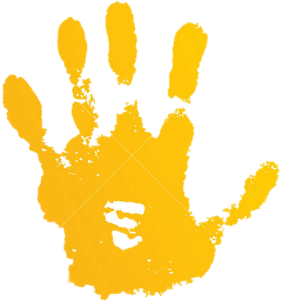
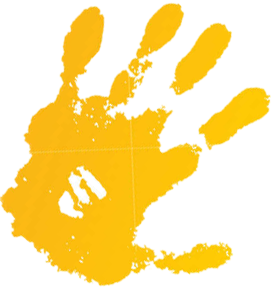
hands home page edc

diff --git a/sites/edc/wp-content/themes/pinapp/assets/css/main.css b/sites/edc/wp-content/themes/pinapp/assets/css/main.css
@@ -1,2 +1,2 @@
-main{margin-top:200px}body{font-family:Montserrat,sans-serif}body.custom-background{background-repeat:repeat-y!important;background-size:1140px!important}body.scroll-down .nav-top-wrapper .header-right-column{display:none}body.scroll-down .nav-top-wrapper{height:90px;opacity:.3}body.scroll-down .header-top-logo{max-width:75px;margin:2px}li,p{font-size:.85rem;line-height:1.6rem}.alt-font{font-family:Concert One,cursive}#menu-social-networks-top .menu-item{list-style:none;display:inline-block}#menu-social-networks-footer .menu-item{font-size:13px;list-style:none;text-align:left}.title-section{font-size:32px;font-family:Concert One,cursive;display:flex;align-items:baseline;color:var(--gray-dark);margin-top:20px;font-style:italic;background-image:url(doodle-title.cb135d66.png);-webkit-text-fill-color:transparent;background-clip:text;-webkit-background-clip:text;background-size:300px;background-position-y:center;animation-name:title-bg-anim;animation-duration:20s;animation-iteration-count:infinite;animation-timing-function:linear}@keyframes title-bg-anim{0%{background-position-x:0}to{background-position-x:-300px}}.subtitle{font-size:26px;font-family:Concert One,cursive;color:var(--gray-dark)}.top-main-nav{background-color:var(--gray-dark)}.top-main-nav .menu-item{position:relative;font-family:Concert One,cursive;color:var(--light);display:flex;height:40px;align-items:center;font-size:1rem;list-style:none}.top-main-nav .menu-item:first-child{--fill:#eb5050}.top-main-nav .menu-item:nth-child(2){--fill:#36e978}.top-main-nav .menu-item:nth-child(3){--fill:#4e4ef5}.top-main-nav .menu-item:nth-child(4){--fill:#feed03}.top-main-nav .menu-item:nth-child(5){--fill:#1beba4}.top-main-nav .menu-item:nth-child(6){--fill:#dc50eb}.top-main-nav .menu-item:nth-child(7){--fill:#850000}.top-main-nav .menu-item:nth-child(8){--fill:#00a2ff}.top-main-nav .menu-item:nth-child(9){--fill:#117406}.top-main-nav .menu-item:before{content:" ";background-color:var(--fill);width:8px;display:inline-block;height:100%}.top-main-nav .menu-item.current-menu-item{background-color:var(--fill)}.top-main-nav .menu-item a{padding:0 10px;color:var(--light)}.menu-mobile-icon{right:10px;top:40px}.icon-sandwich-back{display:none}.nav-top-wrapper{z-index:1000;height:230px;left:0;z-index:3000}.main-header,.nav-top-wrapper{display:flex;width:100%;flex-wrap:wrap;position:fixed;background-color:var(--white);top:0}.main-header{z-index:1000}.main-header.open .top-main-nav-wrapper{display:flex!important;position:fixed;top:0;z-index:2000;width:100vw;height:100vh}.main-header.open .top-main-nav{flex-wrap:wrap;text-align:left!important;justify-content:flex-start!important;padding-top:130px;padding-left:0;flex-direction:column}.main-header.open .icon-sandwich-back{display:block}.main-header.open .nav-menu-item{width:100%}.main-header.open .header-right-column{display:none}.main-header.open .nav-top-wrapper{height:auto;padding-bottom:0!important;background-color:var(--gray-dark)}.main-header.open .header-top-logo{mix-blend-mode:luminosity;margin-bottom:0;max-width:70px}.header-top-logo{max-width:100px;margin:20px;transition:all .5s}.top-main-nav-wrapper{background-color:var(--gray-dark);width:100%}.max-width-wrapper{max-width:1200px;width:100%;margin:0 auto}.header-contact{margin-left:auto}.header-right-column{display:flex}.main-footer{margin-top:130px;background-color:var(--gray-dark)}.main-footer .menu-item{margin:5px}.main-footer .menu-item a{color:var(--light)}.logo-footer{max-width:180px;margin-top:-60%;position:relative}.footer-menu{width:100%}.footer-menu .menu-item{list-style:none}.column-center{flex-grow:1}.column-right{flex-grow:1;width:100%}.footer-main-nav{column-count:2}.footer-nav-menu-item{display:block;text-align:center;color:var(--light);margin:12px 4px;font-size:12px}.footer-small-box-columns{display:flex;flex-wrap:wrap;width:100%}.footer-small-box-left{width:100%}.wp-block-latest-posts.is-grid li{width:100%;margin:0 0 20px}.wp-block-latest-posts.is-grid li .wp-block-latest-posts__featured-image img{width:100%;border-radius:10px}.wp-block-latest-posts.alignleft,.wp-block-latest-posts .wp-block-latest-posts__featured-image.alignleft{margin-right:0}:root{--primary:#f7567c;--secondary:#3e4095;--tertiary:#ffa630;--blue:#3cb9e1;--gray:#f3f3f3;--gray-dark:#5d576b;--danger:#e91717;--teal:#7ee8c4}.bg-light{background-color:#f5f5f5}.bg-blue{background-color:var(--blue)}.bg-teal{background-color:var(--teal)}.bg-secondary{background-color:var(--secondary)}.cmw-100{max-width:100px}.cmw-650{max-width:650px}.cmw-1140{max-width:1140px}.cmw-1200{max-width:1200px}.cmw-450{max-width:450px}.bg-cover{background-size:cover}.bg-center-center{background-position:50%}.bg-center-top{background-position:top}.bg-center-bottom{background-position:bottom}.ty-50{transform:translateY(50%)}.ty-minus30{transform:translateY(-30%)}.wp-block-button{min-height:70px}.btn,.wp-block-button__link{position:relative;padding:10px 40px;border-radius:100px;color:#fff;text-decoration:none;transition:all .1s;border:0;border-bottom:5px solid #a20b0b;font-size:14px;background-color:var(--danger);font-family:Concert One,cursive;font-size:18px}.btn-primary:hover{color:#fff;background-color:var(--danger);border-color:#a20b0b;text-decoration:underline}.btn:active,.wp-block-button__link:active{transform:translateY(5px);border-bottom-width:1px;border-bottom-style:solid;background-color:var(--danger)!important}.texture1{background-image:url(texture-color-1.6fb2a4e7.svg)}.texture2{background-image:url(texture-color-2.c85fe9ee.svg)}.img-edge-1 img,.img-edge-horizontal-1 img{mask-image:url(horizontal-divider-1.4b17ad58.png);mask-repeat:no-repeat;mask-size:cover;mask-position:center bottom;-webkit-mask-image:url(horizontal-divider-1.4b17ad58.png);-webkit-mask-repeat:no-repeat;-webkit-mask-size:cover;-webkit-mask-position:center bottom}.img-edge-2 img,.img-edge-horizontal-2 img{mask-image:url(horizontal-divider-2.debe75ff.png);mask-repeat:no-repeat;mask-size:cover;mask-position:center bottom;-webkit-mask-image:url(horizontal-divider-2.debe75ff.png);-webkit-mask-repeat:no-repeat;-webkit-mask-size:cover;-webkit-mask-position:center bottom}.wp-block-image.w-100 img{width:100%;height:100%}.wp-block-image img{object-fit:cover}.rounded,.wp-block-image.rounded img{border-radius:1rem!important}#sbi_load,.sb_instagram_header{display:none}#sb_instagram{width:100%;height:100%}#sb_instagram .sbi_photo{background-image:none!important;height:100%!important}#sb_instagram .sbi_photo img{width:100%;height:100%;display:block!important;object-fit:cover}#sb_instagram #sbi_images{height:100%;display:flex;align-items:center;flex-wrap:wrap}#sb_instagram #sbi_images .sbi_item{height:50%;display:flex}.keep-cols-same-row-xs .wp-block-column{flex-basis:0!important}.blog-card{width:100%;margin-bottom:20px}.card-img-top{width:100%;height:200px}.card-img-top,.obj-fit-cover-center{object-fit:cover;object-position:center center}.tag-list a{background-color:var(--purple);padding:3px 5px;color:#fff;margin-right:5px}.fs-10{font-size:10px}.fs-12{font-size:12px}.fs-14{font-size:14px}@media (min-width:600px) and (max-width:781px){.wp-block-column:nth-child(2n){margin-left:0}.wp-block-column:not(:only-child){flex-grow:1;flex-basis:100%!important}}@media (min-width:768px){.banner-home .wp-block-column{flex-basis:100%!important;margin-left:0!important}.wp-block-column:not(:first-child){margin-left:0;height:100%}.wp-block-column:nth-child(2n){margin-left:2em}.wp-block-latest-posts.is-grid li{margin:0 8px}.wp-block-latest-posts.columns-3 li{width:calc(33.33333% - .83333em)}.posts_home li{margin:0 1.25em 1.25em 0}.posts_home .wp-block-latest-posts__featured-image{height:200px}.posts_home .wp-block-latest-posts__featured-image img{height:100%;object-fit:cover}.blog-card{width:32%;margin-right:1%;margin-bottom:1%}.blog-card-100{width:100%}.card-body{align-items:flex-end;display:flex;flex-wrap:wrap}.title-section{font-size:40px}body.scroll-down .header-top-logo{max-width:70px;transform:translate(20px,40px) scale(1.4)}body.scroll-down .top-main-nav{height:35px}body.scroll-down .top-main-nav .menu-item.current_page_item a:before{opacity:0}body.scroll-down .nav-top-wrapper{height:auto;opacity:1}body.scroll-down .nav-top-wrapper .header-right-column{display:flex;opacity:1}.rounded-md,.wp-block-image.rounded-md img{border-radius:1rem!important}.header-top-logo{max-width:150px;transform:translateY(30px);margin:10px;transition:all .5s}.h-md-280{height:280px}.h-md-280 .wp-block-group__inner-container{height:100%}.btn{font-size:18px}.blog-article-item{width:33%;padding:3px}.top-main-nav{height:60px;transition:all .5s}.top-main-nav .menu-item{flex-wrap:wrap;height:100%}.top-main-nav .menu-item.current_page_item{background-color:var(--fill)}.top-main-nav .menu-item.current_page_item a:before{content:" ";position:absolute;bottom:100%;left:0;height:50px;width:100%;text-align:center;background-image:url(roof.147d6711.png);background-repeat:no-repeat;background-size:contain;background-position:bottom;transition:all .3s}.top-main-nav .menu-item a{height:100%;display:flex;align-items:center}.top-main-nav .menu-item:after{content:" ";width:100%;background-color:var(--fill);height:4px;margin-top:-4px;display:block}.top-main-nav .menu-item:before{display:none}main{margin-top:168px}.main-footer{flex-wrap:nowrap}.main-footer .menu-item{margin:0 0 8px}.nav-top-wrapper{flex-wrap:nowrap;z-index:auto;position:relative;height:auto}.header-right-column{margin-left:auto}.column-right{width:auto;flex:1}.footer-menu{width:auto;flex-grow:0.4;column-count:2}.footer-small-box-left{width:auto}.footer-small-box-columns{text-align:left}.img-edge-1 img{mask-image:url(vertical-divider-1.bd3361af.png);mask-position:left center;-webkit-mask-image:url(vertical-divider-1.bd3361af.png);-webkit-mask-position:left center}.img-edge-2 img{mask-image:url(vertical-divider-2.33483866.png);mask-position:right center;-webkit-mask-image:url(vertical-divider-2.33483866.png);-webkit-mask-position:right center}.fs-md-11{font-size:11px!important}.fs-md-12{font-size:12px!important}.fs-md-14{font-size:14px!important}.fs-md-15{font-size:15px!important}.fs-md-16{font-size:16px!important}.fs-md-18{font-size:18px!important}.fs-md-36{font-size:36px!important}.fs-md-40{font-size:40px!important}.fs-md-45{font-size:45px!important}.text-md-left{text-align:left}}
+main{margin-top:200px}body{font-family:Montserrat,sans-serif}body.custom-background{background-repeat:repeat-y!important;background-size:1140px!important}body.scroll-down .nav-top-wrapper .header-right-column{display:none}body.scroll-down .nav-top-wrapper{height:90px;opacity:.3}body.scroll-down .header-top-logo{max-width:75px;margin:2px}li,p{font-size:.85rem;line-height:1.6rem}.alt-font{font-family:Concert One,cursive}#menu-social-networks-top .menu-item{list-style:none;display:inline-block}#menu-social-networks-footer .menu-item{font-size:13px;list-style:none;text-align:left}.title-section{font-size:32px;font-family:Concert One,cursive;display:flex;align-items:baseline;color:var(--gray-dark);margin-top:20px;font-style:italic;background-image:url(doodle-title.cb135d66.png);-webkit-text-fill-color:transparent;background-clip:text;-webkit-background-clip:text;background-size:300px;background-position-y:center;animation-name:title-bg-anim;animation-duration:20s;animation-iteration-count:infinite;animation-timing-function:linear}@keyframes title-bg-anim{0%{background-position-x:0}to{background-position-x:-300px}}.subtitle{font-size:26px;font-family:Concert One,cursive;color:var(--gray-dark)}.top-main-nav{background-color:var(--gray-dark)}.top-main-nav .menu-item{position:relative;font-family:Concert One,cursive;color:var(--light);display:flex;height:40px;align-items:center;font-size:1rem;list-style:none}.top-main-nav .menu-item:first-child{--fill:#eb5050}.top-main-nav .menu-item:nth-child(2){--fill:#36e978}.top-main-nav .menu-item:nth-child(3){--fill:#4e4ef5}.top-main-nav .menu-item:nth-child(4){--fill:#feed03}.top-main-nav .menu-item:nth-child(5){--fill:#1beba4}.top-main-nav .menu-item:nth-child(6){--fill:#dc50eb}.top-main-nav .menu-item:nth-child(7){--fill:#850000}.top-main-nav .menu-item:nth-child(8){--fill:#00a2ff}.top-main-nav .menu-item:nth-child(9){--fill:#117406}.top-main-nav .menu-item:before{content:" ";background-color:var(--fill);width:8px;display:inline-block;height:100%}.top-main-nav .menu-item.current-menu-item{background-color:var(--fill)}.top-main-nav .menu-item a{padding:0 10px;color:var(--light)}.menu-mobile-icon{right:10px;top:40px}.icon-sandwich-back{display:none}.nav-top-wrapper{z-index:1000;height:230px;left:0;z-index:3000}.main-header,.nav-top-wrapper{display:flex;width:100%;flex-wrap:wrap;position:fixed;background-color:var(--white);top:0}.main-header{z-index:1000}.main-header.open .top-main-nav-wrapper{display:flex!important;position:fixed;top:0;z-index:2000;width:100vw;height:100vh}.main-header.open .top-main-nav{flex-wrap:wrap;text-align:left!important;justify-content:flex-start!important;padding-top:130px;padding-left:0;flex-direction:column}.main-header.open .icon-sandwich-back{display:block}.main-header.open .nav-menu-item{width:100%}.main-header.open .header-right-column{display:none}.main-header.open .nav-top-wrapper{height:auto;padding-bottom:0!important;background-color:var(--gray-dark)}.main-header.open .header-top-logo{mix-blend-mode:luminosity;margin-bottom:0;max-width:70px}.header-top-logo{max-width:100px;margin:20px;transition:all .5s}.top-main-nav-wrapper{background-color:var(--gray-dark);width:100%}.max-width-wrapper{max-width:1200px;width:100%;margin:0 auto}.header-contact{margin-left:auto}.header-right-column{display:flex}.main-footer{margin-top:130px;background-color:var(--gray-dark)}.main-footer .menu-item{margin:5px}.main-footer .menu-item a{color:var(--light)}.logo-footer{max-width:180px;margin-top:-60%;position:relative}.footer-menu{width:100%}.footer-menu .menu-item{list-style:none}.column-center{flex-grow:1}.column-right{flex-grow:1;width:100%}.footer-main-nav{column-count:2}.footer-nav-menu-item{display:block;text-align:center;color:var(--light);margin:12px 4px;font-size:12px}.footer-small-box-columns{display:flex;flex-wrap:wrap;width:100%}.footer-small-box-left{width:100%}.wp-block-latest-posts.is-grid li{width:100%;margin:0 0 20px}.wp-block-latest-posts.is-grid li .wp-block-latest-posts__featured-image img{width:100%;border-radius:10px}.wp-block-latest-posts.alignleft,.wp-block-latest-posts .wp-block-latest-posts__featured-image.alignleft{margin-right:0}.home-hand-1 img,.home-hand-2 img{max-width:100px;object-fit:contain!important}@media (min-width:800px){.home-hand-1 img,.home-hand-2 img{max-width:150px}}@media (min-width:1100px){.home-hand-1 img,.home-hand-2 img{max-width:250px}}.home-hand-1{left:-50px;top:0;transform:translateY(-70px)}@media (min-width:800px){.home-hand-1{left:0}}.home-hand-2{right:0;bottom:0;transform:translateY(130px)}:root{--primary:#f7567c;--secondary:#3e4095;--tertiary:#ffa630;--blue:#3cb9e1;--gray:#f3f3f3;--gray-dark:#5d576b;--danger:#e91717;--teal:#7ee8c4}.bg-light{background-color:#f5f5f5}.bg-blue{background-color:var(--blue)}.bg-teal{background-color:var(--teal)}.bg-secondary{background-color:var(--secondary)}.cmw-100{max-width:100px}.cmw-650{max-width:650px}.cmw-1140{max-width:1140px}.cmw-1200{max-width:1200px}.cmw-450{max-width:450px}.bg-cover{background-size:cover}.bg-center-center{background-position:50%}.bg-center-top{background-position:top}.bg-center-bottom{background-position:bottom}.ty-50{transform:translateY(50%)}.ty-minus30{transform:translateY(-30%)}.wp-block-button{min-height:70px}.btn,.wp-block-button__link{position:relative;padding:10px 40px;border-radius:100px;color:#fff;text-decoration:none;transition:all .1s;border:0;border-bottom:5px solid #a20b0b;font-size:14px;background-color:var(--danger);font-family:Concert One,cursive;font-size:18px}.btn-primary:hover{color:#fff;background-color:var(--danger);border-color:#a20b0b;text-decoration:underline}.btn:active,.wp-block-button__link:active{transform:translateY(5px);border-bottom-width:1px;border-bottom-style:solid;background-color:var(--danger)!important}.texture1{background-image:url(texture-color-1.6fb2a4e7.svg)}.texture2{background-image:url(texture-color-2.c85fe9ee.svg)}.img-edge-1 img,.img-edge-horizontal-1 img{mask-image:url(horizontal-divider-1.4b17ad58.png);mask-repeat:no-repeat;mask-size:cover;mask-position:center bottom;-webkit-mask-image:url(horizontal-divider-1.4b17ad58.png);-webkit-mask-repeat:no-repeat;-webkit-mask-size:cover;-webkit-mask-position:center bottom}.img-edge-2 img,.img-edge-horizontal-2 img{mask-image:url(horizontal-divider-2.debe75ff.png);mask-repeat:no-repeat;mask-size:cover;mask-position:center bottom;-webkit-mask-image:url(horizontal-divider-2.debe75ff.png);-webkit-mask-repeat:no-repeat;-webkit-mask-size:cover;-webkit-mask-position:center bottom}.wp-block-image.w-100 img{width:100%;height:100%}.wp-block-image img{object-fit:cover}.rounded,.wp-block-image.rounded img{border-radius:1rem!important}#sbi_load,.sb_instagram_header{display:none}#sb_instagram{width:100%;height:100%}#sb_instagram .sbi_photo{background-image:none!important;height:100%!important}#sb_instagram .sbi_photo img{width:100%;height:100%;display:block!important;object-fit:cover}#sb_instagram #sbi_images{height:100%;display:flex;align-items:center;flex-wrap:wrap}#sb_instagram #sbi_images .sbi_item{height:50%;display:flex}.keep-cols-same-row-xs .wp-block-column{flex-basis:0!important}.blog-card{width:100%;margin-bottom:20px}.card-img-top{width:100%;height:200px}.card-img-top,.obj-fit-cover-center{object-fit:cover;object-position:center center}.tag-list a{background-color:var(--purple);padding:3px 5px;color:#fff;margin-right:5px}.fs-10{font-size:10px}.fs-12{font-size:12px}.fs-14{font-size:14px}@media (min-width:600px) and (max-width:781px){.wp-block-column:nth-child(2n){margin-left:0}.wp-block-column:not(:only-child){flex-grow:1;flex-basis:100%!important}}@media (min-width:768px){.banner-home .wp-block-column{flex-basis:100%!important;margin-left:0!important}.wp-block-column:not(:first-child){margin-left:0;height:100%}.wp-block-column:nth-child(2n){margin-left:2em}.wp-block-latest-posts.is-grid li{margin:0 8px}.wp-block-latest-posts.columns-3 li{width:calc(33.33333% - .83333em)}.posts_home li{margin:0 1.25em 1.25em 0}.posts_home .wp-block-latest-posts__featured-image{height:200px}.posts_home .wp-block-latest-posts__featured-image img{height:100%;object-fit:cover}.blog-card{width:32%;margin-right:1%;margin-bottom:1%}.blog-card-100{width:100%}.card-body{align-items:flex-end;display:flex;flex-wrap:wrap}.title-section{font-size:40px}body.scroll-down .header-top-logo{max-width:70px;transform:translate(20px,40px) scale(1.4)}body.scroll-down .top-main-nav{height:35px}body.scroll-down .top-main-nav .menu-item.current_page_item a:before{opacity:0}body.scroll-down .nav-top-wrapper{height:auto;opacity:1}body.scroll-down .nav-top-wrapper .header-right-column{display:flex;opacity:1}.rounded-md,.wp-block-image.rounded-md img{border-radius:1rem!important}.header-top-logo{max-width:150px;transform:translateY(30px);margin:10px;transition:all .5s}.h-md-280{height:280px}.h-md-280 .wp-block-group__inner-container{height:100%}.btn{font-size:18px}.blog-article-item{width:33%;padding:3px}.top-main-nav{height:60px;transition:all .5s}.top-main-nav .menu-item{flex-wrap:wrap;height:100%}.top-main-nav .menu-item.current_page_item{background-color:var(--fill)}.top-main-nav .menu-item.current_page_item a:before{content:" ";position:absolute;bottom:100%;left:0;height:50px;width:100%;text-align:center;background-image:url(roof.147d6711.png);background-repeat:no-repeat;background-size:contain;background-position:bottom;transition:all .3s}.top-main-nav .menu-item a{height:100%;display:flex;align-items:center}.top-main-nav .menu-item:after{content:" ";width:100%;background-color:var(--fill);height:4px;margin-top:-4px;display:block}.top-main-nav .menu-item:before{display:none}main{margin-top:168px}.main-footer{flex-wrap:nowrap}.main-footer .menu-item{margin:0 0 8px}.nav-top-wrapper{flex-wrap:nowrap;z-index:auto;position:relative;height:auto}.header-right-column{margin-left:auto}.column-right{width:auto;flex:1}.footer-menu{width:auto;flex-grow:0.4;column-count:2}.footer-small-box-left{width:auto}.footer-small-box-columns{text-align:left}.img-edge-1 img{mask-image:url(vertical-divider-1.bd3361af.png);mask-position:left center;-webkit-mask-image:url(vertical-divider-1.bd3361af.png);-webkit-mask-position:left center}.img-edge-2 img{mask-image:url(vertical-divider-2.33483866.png);mask-position:right center;-webkit-mask-image:url(vertical-divider-2.33483866.png);-webkit-mask-position:right center}.fs-md-11{font-size:11px!important}.fs-md-12{font-size:12px!important}.fs-md-14{font-size:14px!important}.fs-md-15{font-size:15px!important}.fs-md-16{font-size:16px!important}.fs-md-18{font-size:18px!important}.fs-md-36{font-size:36px!important}.fs-md-40{font-size:40px!important}.fs-md-45{font-size:45px!important}.text-md-left{text-align:left}}
 /*# sourceMappingURL=/main.css.map */

diff --git a/sites/edc/wp-content/themes/pinapp/assets-src/css/main.less b/sites/edc/wp-content/themes/pinapp/assets-src/css/main.less
@@ -1,3 +1,9 @@
+.responsive(@minWidth; @rules) {
+    @media (min-width: @minWidth) {
+        @rules();
+    }
+}
+
 main {
 	margin-top: 200px;
 }
@@ -300,6 +306,39 @@ li {
 		margin-right: 0;
 	}
 }
+.home-hand-1,
+.home-hand-2 {
+	img {
+		max-width: 100px;
+		object-fit: contain !important;
+		.responsive(800px, {
+			max-width: 150px;
+		});
+		.responsive(1100px, {
+			max-width: 250px;
+		});
+	}
+}
+.home-hand-1 {
+	left: -50px;
+	top: 0;
+	transform: translateY(-70px);
+	.responsive(800px, {
+		left: 0;
+	});
+}
+.home-hand-2 {
+	right: 0;
+	bottom: 0;
+	transform: translateY(130px);
+}
+
+// .hands-block {
+// 	overflow-x: hidden;
+// 	.responsive(1100px, {
+// 		overflow-x: auto;
+// 	});
+// }
 
 /* OVERALL */
 :root {
